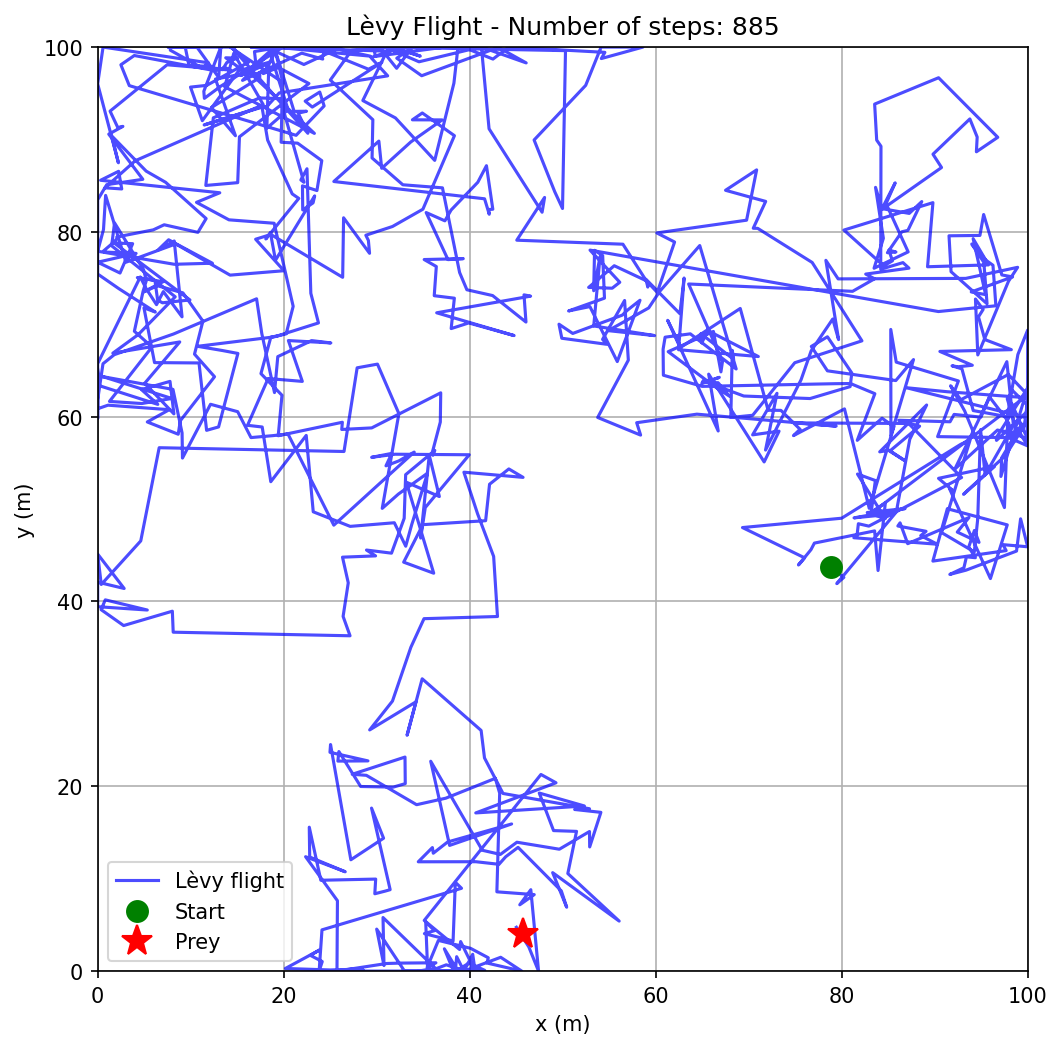
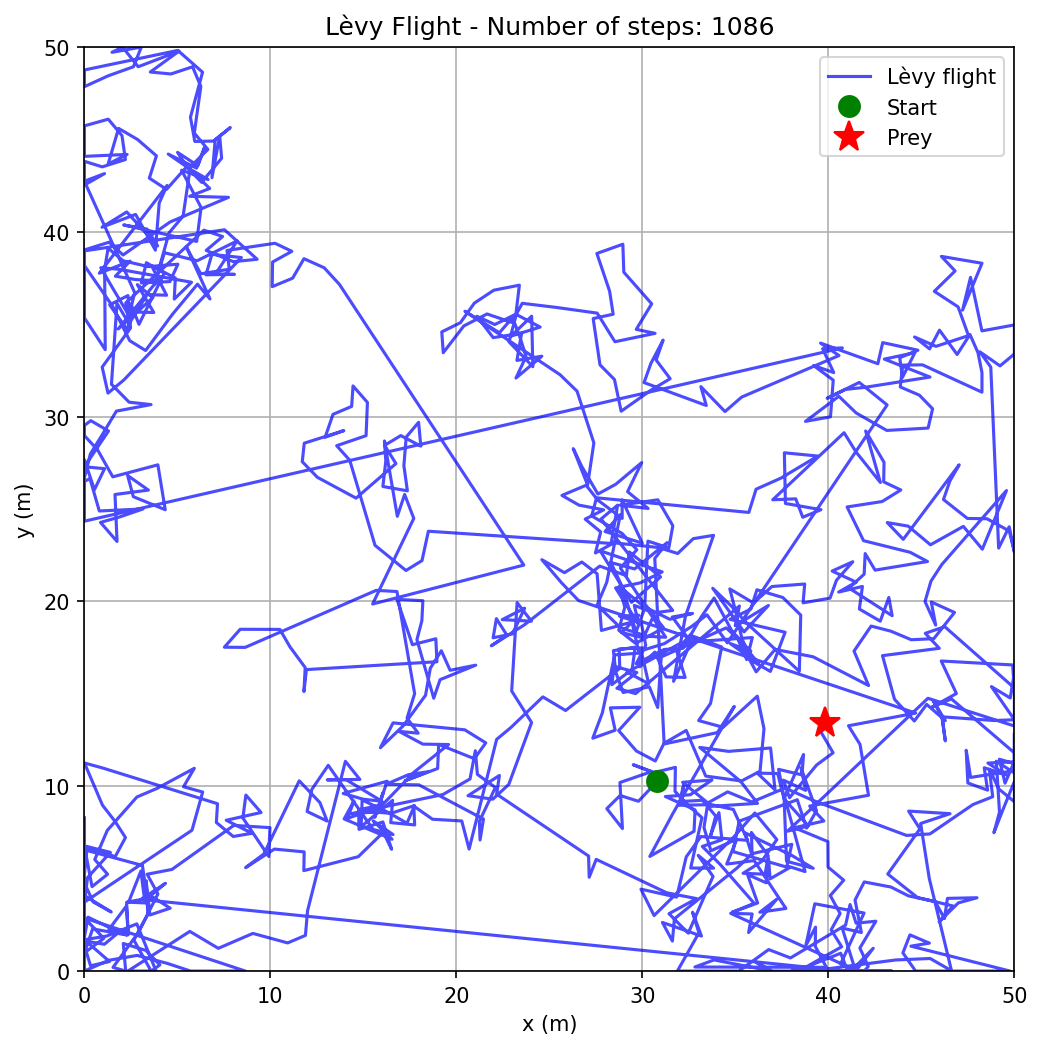
Folder Levy in Results

Changed region(s): [[0.0307, 0.0, 0.9827, 0.9762], [0.5221, 0.9457, 0.5528, 1.0]]

diff --git a/Levy/Levy.py b/Levy/Levy.py
@@ -1,10 +1,10 @@
 import numpy as np
 import matplotlib.pyplot as plt
 
-L=100
+L=50
 N_pasos=10
-alpha_0=1.5
-alpha_f=3
+alpha_0=1.2
+alpha_f=3.2
 delta_alpha=0.2
 l_min=1.0 #necesario para normalizar la power law
 suma=0
